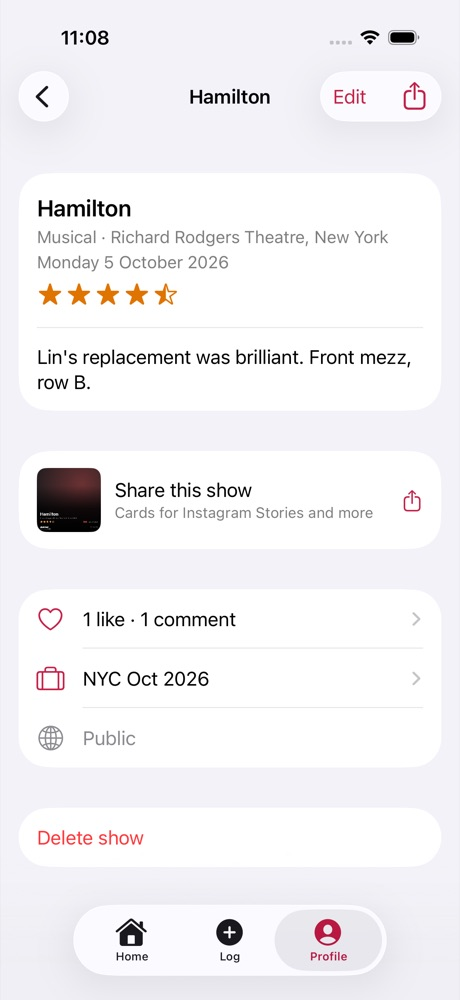
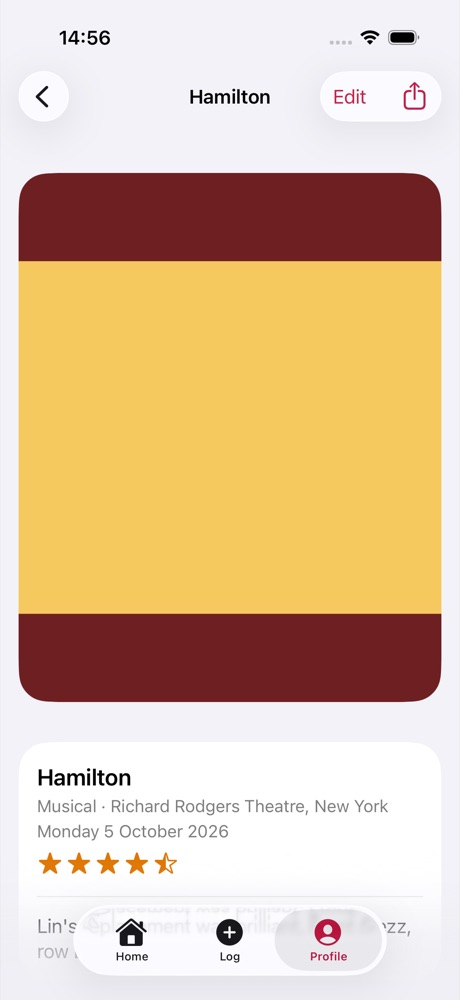
Refresh the iOS entry reference screenshot

diff --git a/apps/web/src/lib/design-system.ts b/apps/web/src/lib/design-system.ts
@@ -263,7 +263,7 @@ export const IOS_SCREENSHOTS = [
   { file: "comments-drawer.jpg", title: "Comments drawer", caption: "A post's comments as a pull-up drawer over the feed, the composer pinned to the bottom.", width: 460, height: 1000 },
   { file: "profile.jpg", title: "Profile", caption: "Settings gear above the identity card, its edit pencil inside, then follow requests and the current-year summary. iPhone SE.", width: 562, height: 1000 },
   { file: "diary.jpg", title: "Diary rows", caption: "EntryRow in Upcoming and Seen sections; swipe or long press to edit or delete.", width: 460, height: 1000 },
-  { file: "entry.jpg", title: "A show", caption: "A Form: the show first, then Share, then likes, trips and privacy, then Delete.", width: 460, height: 1000 },
+  { file: "entry.jpg", title: "A show", caption: "A Form: the attached photo at 4:5, then show details, Share, likes, trips and privacy. Without a photo, Add a photo opens Edit.", width: 460, height: 1000 },
   { file: "share.jpg", title: "Share", caption: "The Share sheet: the card at full width, then the ways to send it.", width: 460, height: 1000 },
   { file: "log-form.jpg", title: "Log a show", caption: "A Form in a sheet: date with quick picks, rating, note, a segmented visibility picker.", width: 460, height: 1000 },
   { file: "comments.jpg", title: "Comments", caption: "Comments as List rows (swipe to delete) and the composer pinned above the tab bar.", width: 460, height: 1000 },
